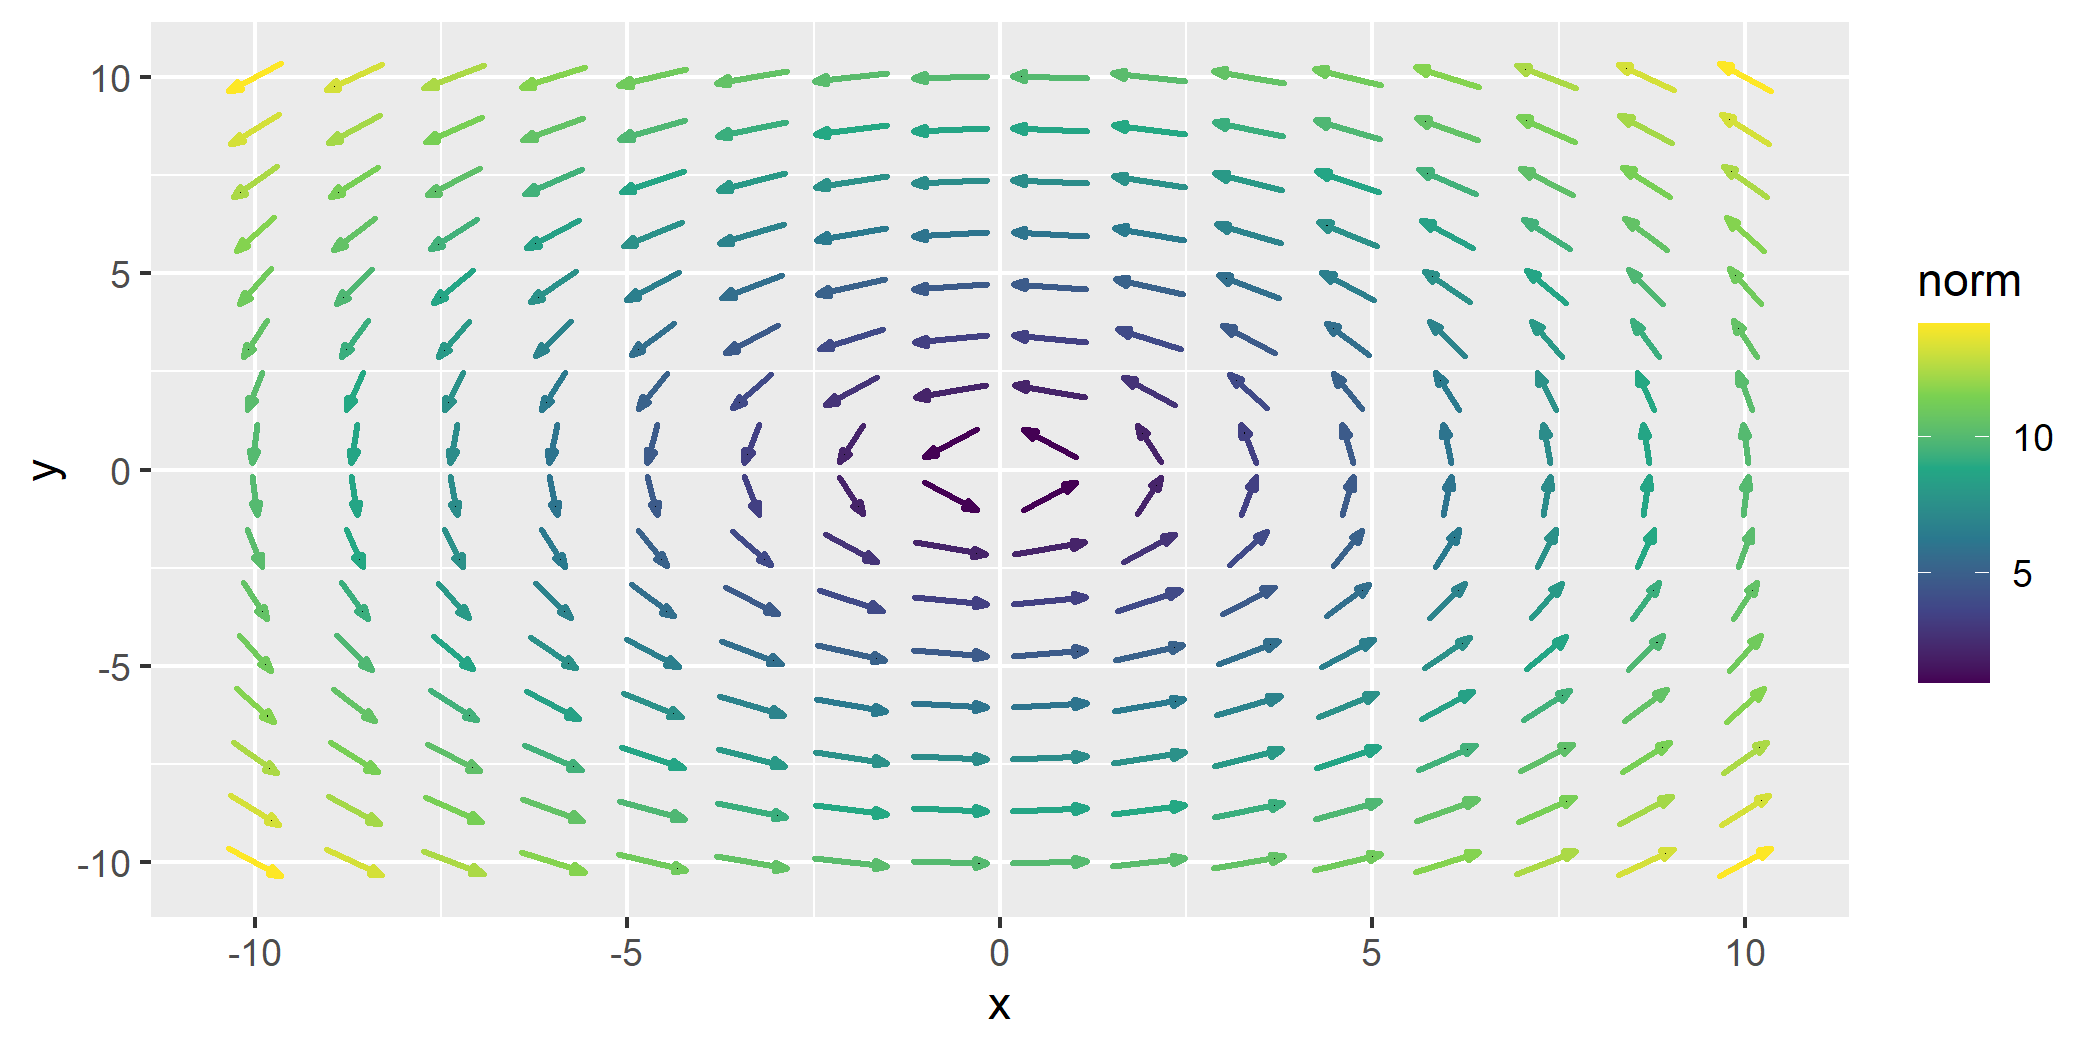
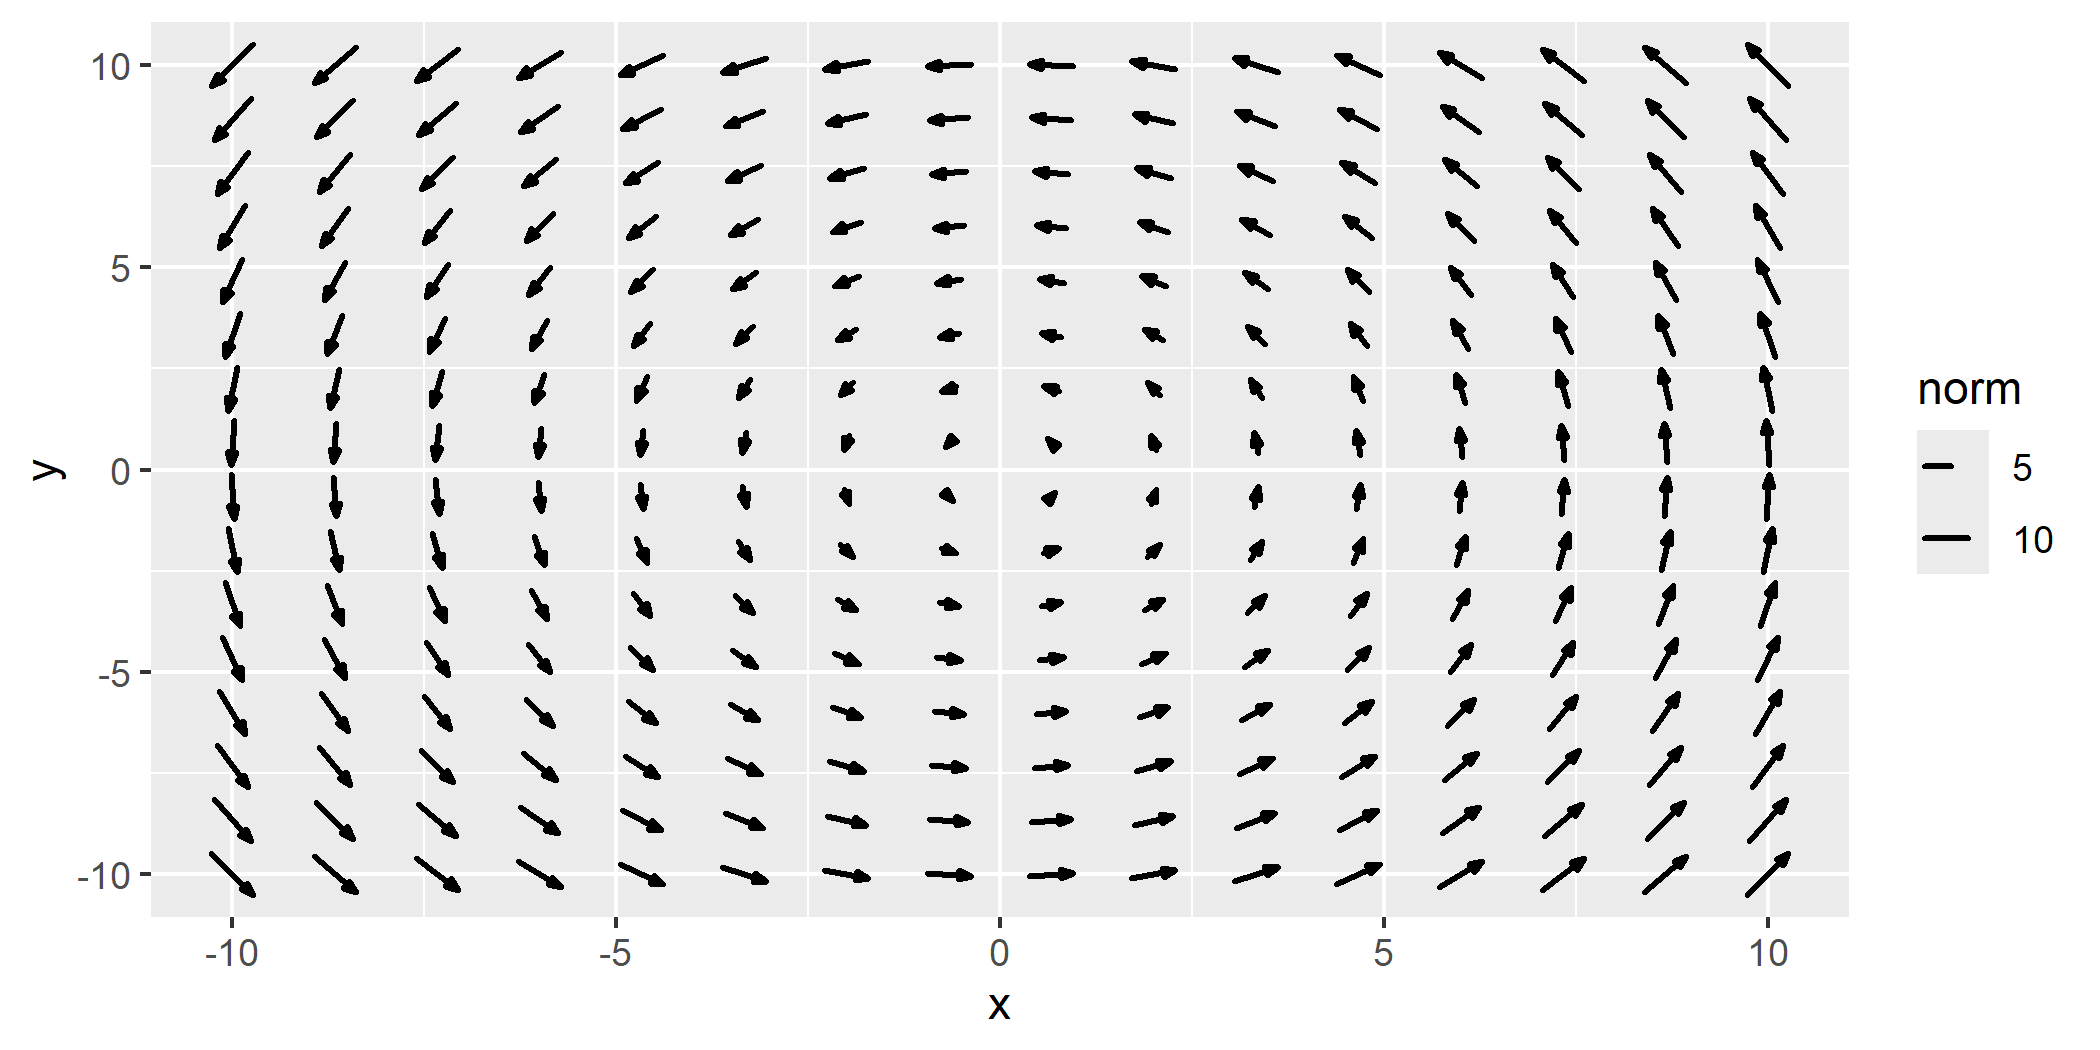
reflect geom_vector_smooth progress

diff --git a/README.md b/README.md
@@ -124,6 +124,7 @@ wind_data_cartesian |>
        x = "Longitude", y = "Latitude")  +
   lims(x = c(-3,2), y = c(-2,3)) +
   scale_length_continuous()
+#> Normalization is ignored because length is mapped using after_stat().
 ```
 
 <img src="man/figures/README-unnamed-chunk-6-1.png" width="100%" />
@@ -187,14 +188,15 @@ The norm of a vector $\mathbf{w} = (u, v)$ is given by:
 
 $|\mathbf{w}| = \sqrt{u^2 + v^2}$
 
-We can visualize the norm by mapping it to the color aesthetic:
+We can visualize the norm by mapping it to the length aesthetic:
 
 ``` r
 ggplot() +
   geom_vector_field(
-    aes(color = after_stat(norm)),
+    aes(length = after_stat(norm)),
     fun = f, xlim = c(-10, 10), ylim = c(-10, 10)
     ) 
+#> Normalization is ignored because length is mapped using after_stat().
 ```
 
 <img src="man/figures/README-unnamed-chunk-8-1.png" width="100%" />
@@ -222,9 +224,10 @@ divergence to the color aesthetic.
 ``` r
 ggplot() +
   geom_vector_field(
-    aes(color = after_stat(divergence)), 
+    aes(length = after_stat(norm), color = after_stat(divergence)), 
     fun = f, xlim = c(-10, 10), ylim = c(-10, 10)
   ) 
+#> Normalization is ignored because length is mapped using after_stat().
 ```
 
 <img src="man/figures/README-unnamed-chunk-9-1.png" width="100%" />
@@ -480,6 +483,60 @@ ggplot() +
 <!--   draw_plot(plot, 0, 0, .8, 1) +   -->
 <!--   draw_plot(legend, x = .55, y = .6, width = .3, height = 0.3) -->
 <!-- ``` -->
+
+## In Development
+
+### `geom_vector_smooth()`
+
+The `geom_vector_smooth()` function is designed to provide a smoothed
+estimate of a vector field based on observed vector components. Just as
+`geom_smooth()` fits a regression line through data points,
+`geom_vector_smooth()` fits a smooth vector field through individual
+vector observations. It does this by applying statistical smoothing
+techniques to the vector components (`dx`, `dy`) to create a smooth
+representation of the direction and magnitude transitions across the
+field.
+
+#### Example Usage
+
+``` r
+# Create a function to generate random vectors based on (x, y) inputs
+generate_vectors <- function(v) {
+  x <- v[1]
+  y <- v[2]
+  c(x + rnorm(1, 1, 1), y + rnorm(1, 1, 1))  # Add random noise to simulate new x, y positions
+}
+
+# Set seed for reproducibility
+set.seed(123)
+
+# Generate sample points for the vector field
+sample_points <- data.frame(
+  x = runif(10, min = -10, max = 10),  # Random x coordinates between -10 and 10
+  y = runif(10, min = -10, max = 10)   # Random y coordinates between -10 and 10
+)
+
+# Apply the generate_vectors function to each row to create displacements
+result <- t(apply(sample_points, 1, generate_vectors))
+
+# Create new columns for the end coordinates (xend, yend)
+sample_points$xend <- result[, 1]
+sample_points$yend <- result[, 2]
+
+# Calculate the displacements (dx, dy)
+sample_points$dx <- sample_points$xend - sample_points$x
+sample_points$dy <- sample_points$yend - sample_points$y
+
+# Visualize the original and smoothed vectors using `ggplot2` from ggvfields
+ggplot(sample_points, aes(x = x, y = y)) +
+  geom_vector(aes(dx = dx, dy = dy), color = "red") +  # Plot original vectors in red
+  geom_vector_smooth(aes(dx = dx, dy = dy))            # Overlay with smoothed vectors
+```
+
+<img src="man/figures/README-unnamed-chunk-17-1.png" width="100%" />
+
+This example demonstrates how `geom_vector_smooth()` can be used to fit
+a vector field to vector data.
 
 ## License
 
